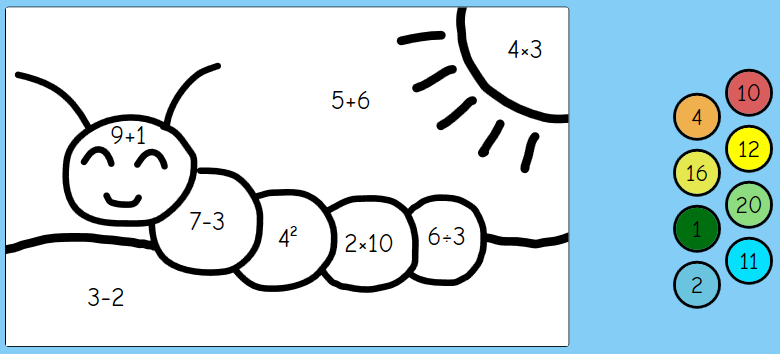
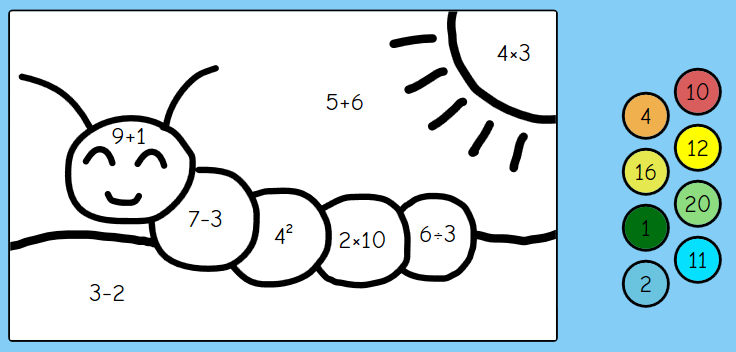
Improved colour by numbers UI & general minigame UI.

diff --git a/Maths Game Prototype/MainWindow.xaml b/Maths Game Prototype/MainWindow.xaml
@@ -463,13 +463,13 @@
             </Grid>
 
             <Grid Grid.Row="1">
-                <Grid Name="ColourByNumbersGrid" Margin="8" Visibility="Collapsed">
+                <Grid Name="ColourByNumbersGrid" Margin="8" Visibility="Collapsed" HorizontalAlignment="Center">
                     <Grid.ColumnDefinitions>
                         <ColumnDefinition Width="Auto"/>
-                        <ColumnDefinition Width="*"/>
+                        <ColumnDefinition Width="Auto"/>
                         <ColumnDefinition Width="Auto"/>
                     </Grid.ColumnDefinitions>
-                    <Border Name="CateBackground" Background="White">
+                    <Border Name="CateBackground" BorderThickness="2" Background="White" Margin="0 0 64 0">
                         <Viewbox Stretch="Uniform">
                             <Canvas Width="266" Height="160">
                                 <Canvas.RenderTransform>
@@ -871,8 +871,14 @@
                     </StackPanel>
                     <Button Name="CheckAnsBtn" Click="CheckAnsBtn_OnClick" Content="Check!"/>
                 </StackPanel>
-                
-                <TextBlock Name="MinigameTooltip" TextWrapping="Wrap" TextAlignment="Center"/>
+
+                <Grid Name="MinigameTooltipArea" HorizontalAlignment="Center" Height="Auto" Margin="0 0 0 8">
+                    <Grid.ColumnDefinitions>
+                        <ColumnDefinition Width="Auto"/>
+                        <ColumnDefinition Width="*"/>
+                    </Grid.ColumnDefinitions>
+                    <TextBlock Grid.Column="1" Name="MinigameTooltip" Width="640" TextWrapping="Wrap" TextAlignment="Center" HorizontalAlignment="Left"/>
+                </Grid>
 
                 <Border Name="AnswerRevealArea" Padding="8" Background="{StaticResource Whiteish}" BorderBrush="LightGray" Visibility="Visible">
                     <Grid>

diff --git a/Maths Game Prototype/Minigame.cs b/Maths Game Prototype/Minigame.cs
@@ -37,7 +37,7 @@ namespace Maths_Game_Prototype
             MainWindow.PaperTip.Visibility = Visibility.Collapsed; //Hides 'do your workings on paper' tip
             MainWindow.CheckAnsBtn.Visibility = Visibility.Collapsed; //Hides the 'Check' button
             MainWindow.AnswerRevealArea.Visibility = Visibility.Collapsed; //Hides the answer reveal area
-            MainWindow.MinigameTooltip.Visibility = Visibility.Visible; //Shows the minigame's instructions.
+            MainWindow.MinigameTooltipArea.Visibility = Visibility.Visible; //Shows the minigame's instructions.
         }
 
         /// <summary>

diff --git a/Maths Game Prototype/Quiz.cs b/Maths Game Prototype/Quiz.cs
@@ -44,7 +44,7 @@ namespace Maths_Game_Prototype
             MainWindow.TitleColour.Background = OperatorCategory.LightColour;
             MainWindow.PaperTip.Visibility = PaperTip ? Visibility.Visible : Visibility.Collapsed;
             MainWindow.ScoreArea.Visibility = Visibility.Visible;
-            MainWindow.MinigameTooltip.Visibility = Visibility.Collapsed;
+            MainWindow.MinigameTooltipArea.Visibility = Visibility.Collapsed;
             MainWindow.ResetScore();
         }
         
